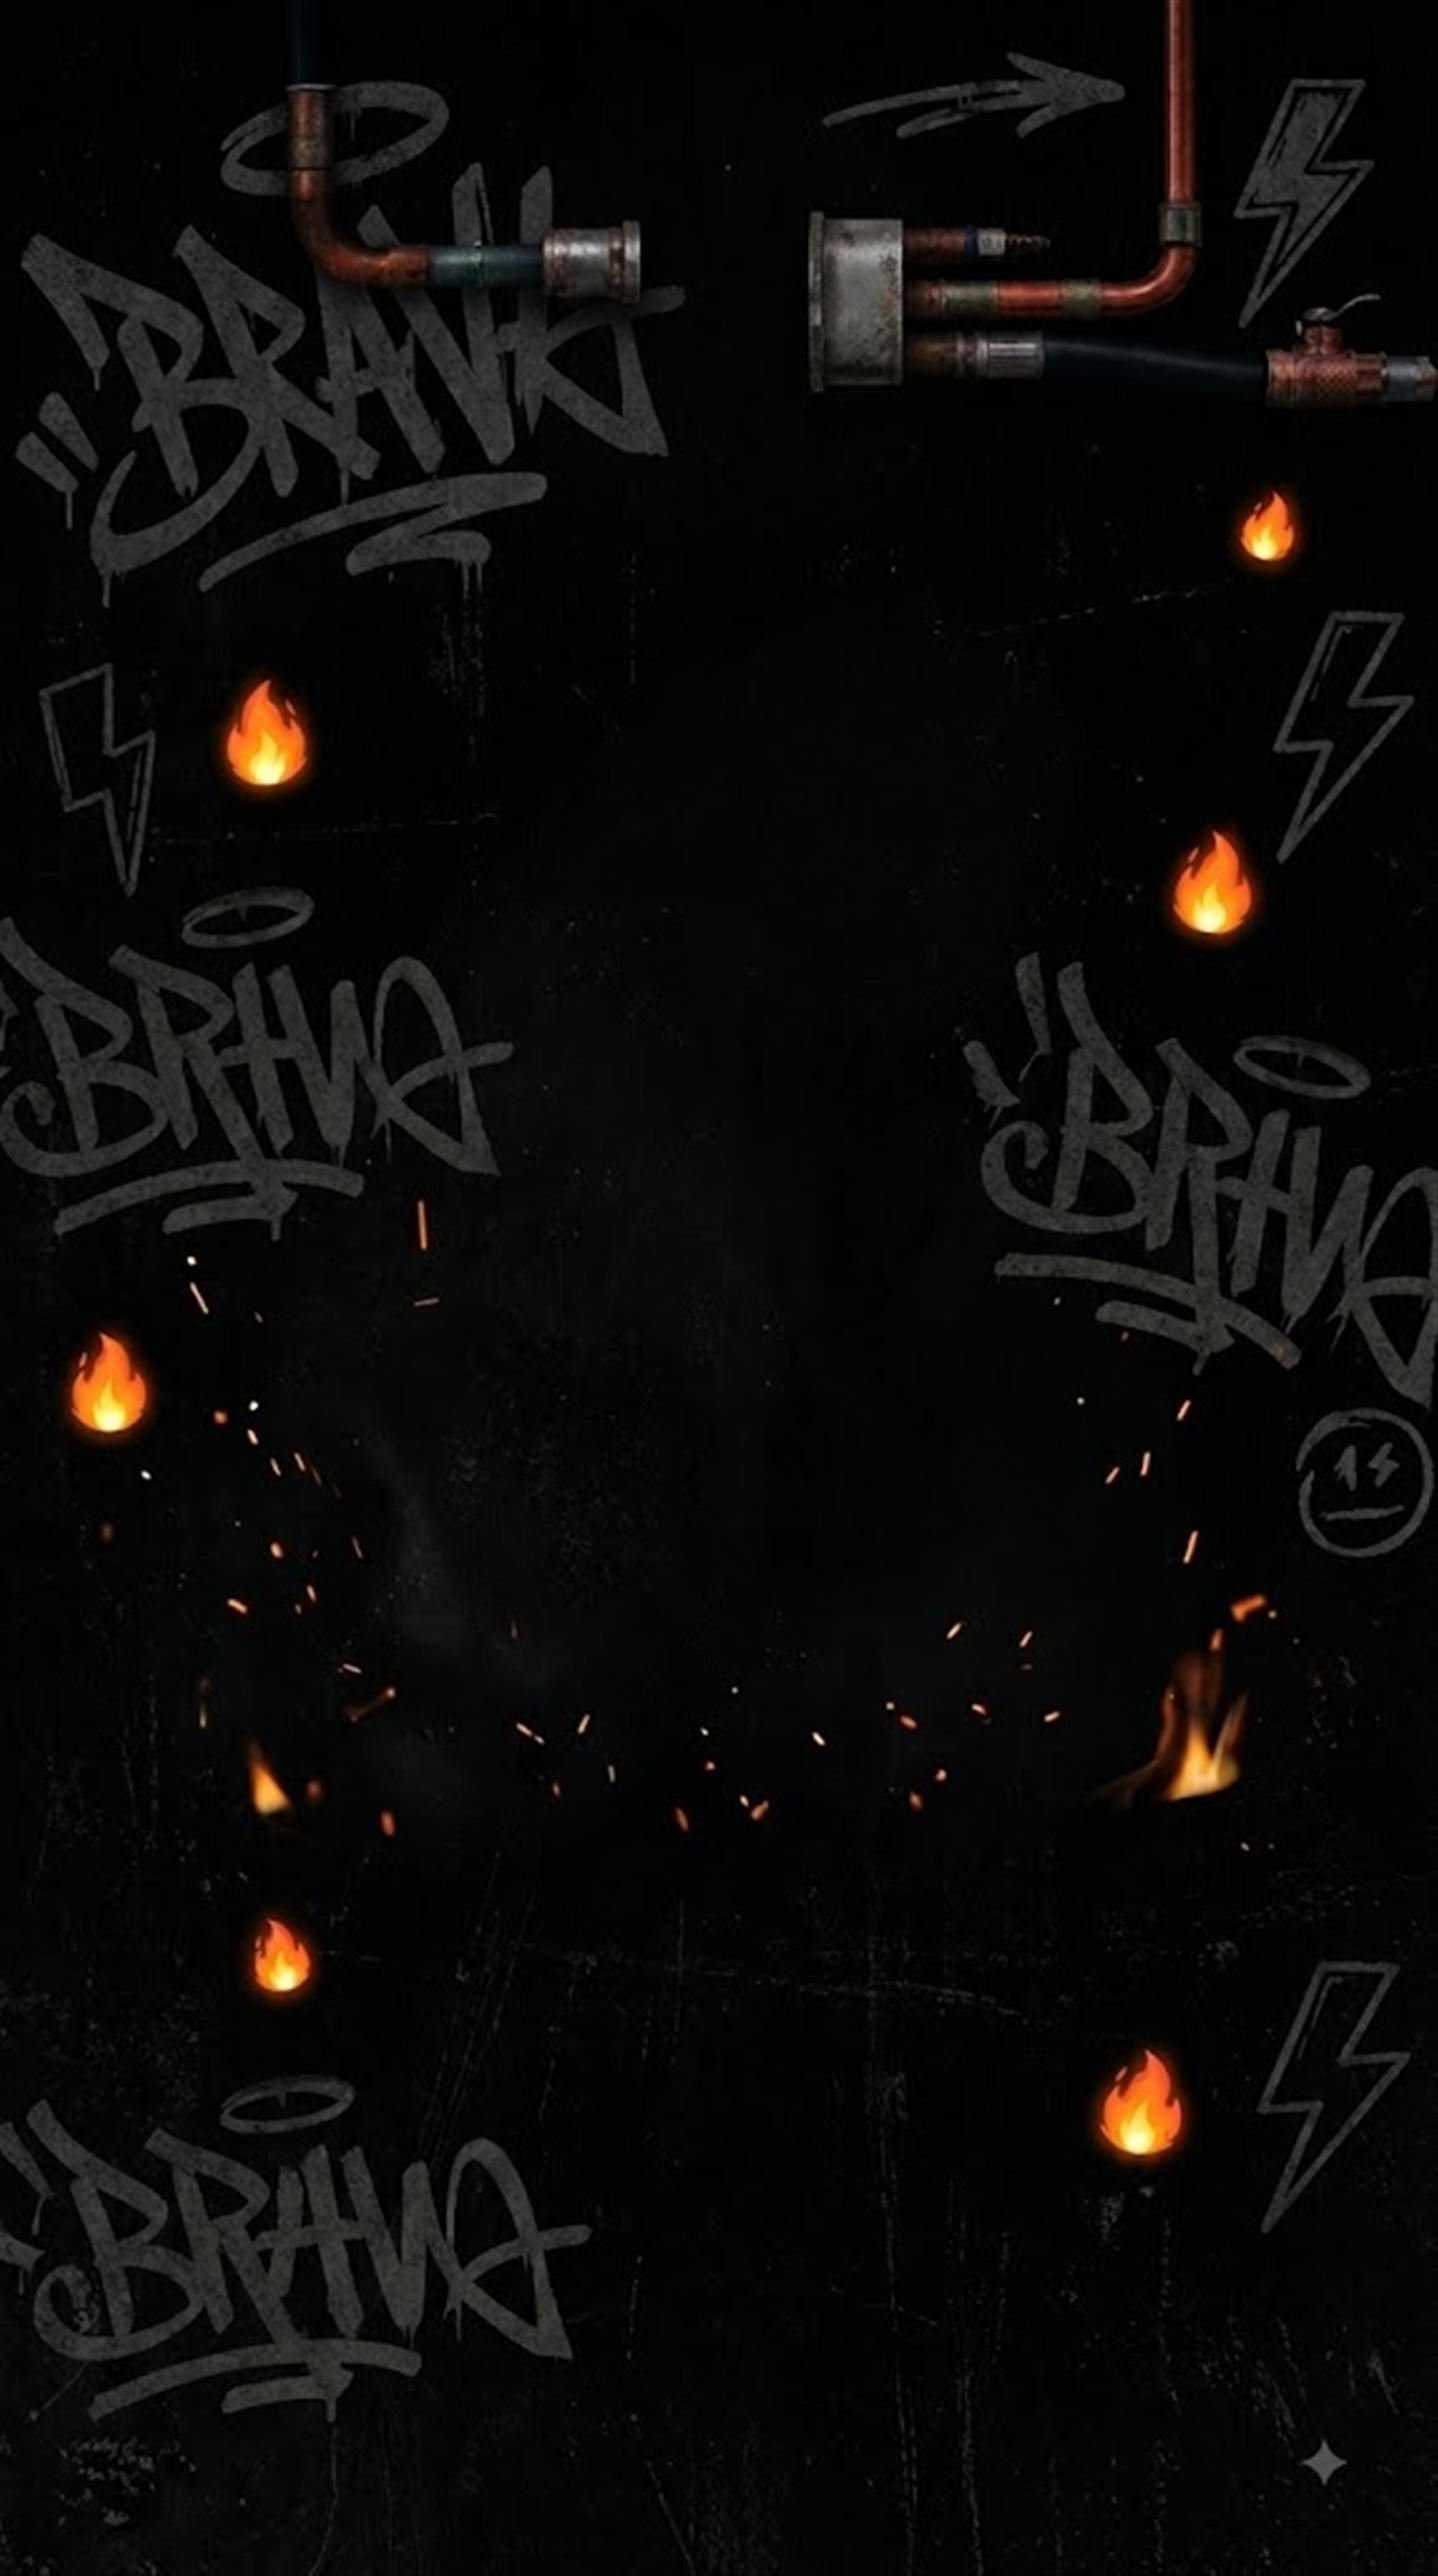
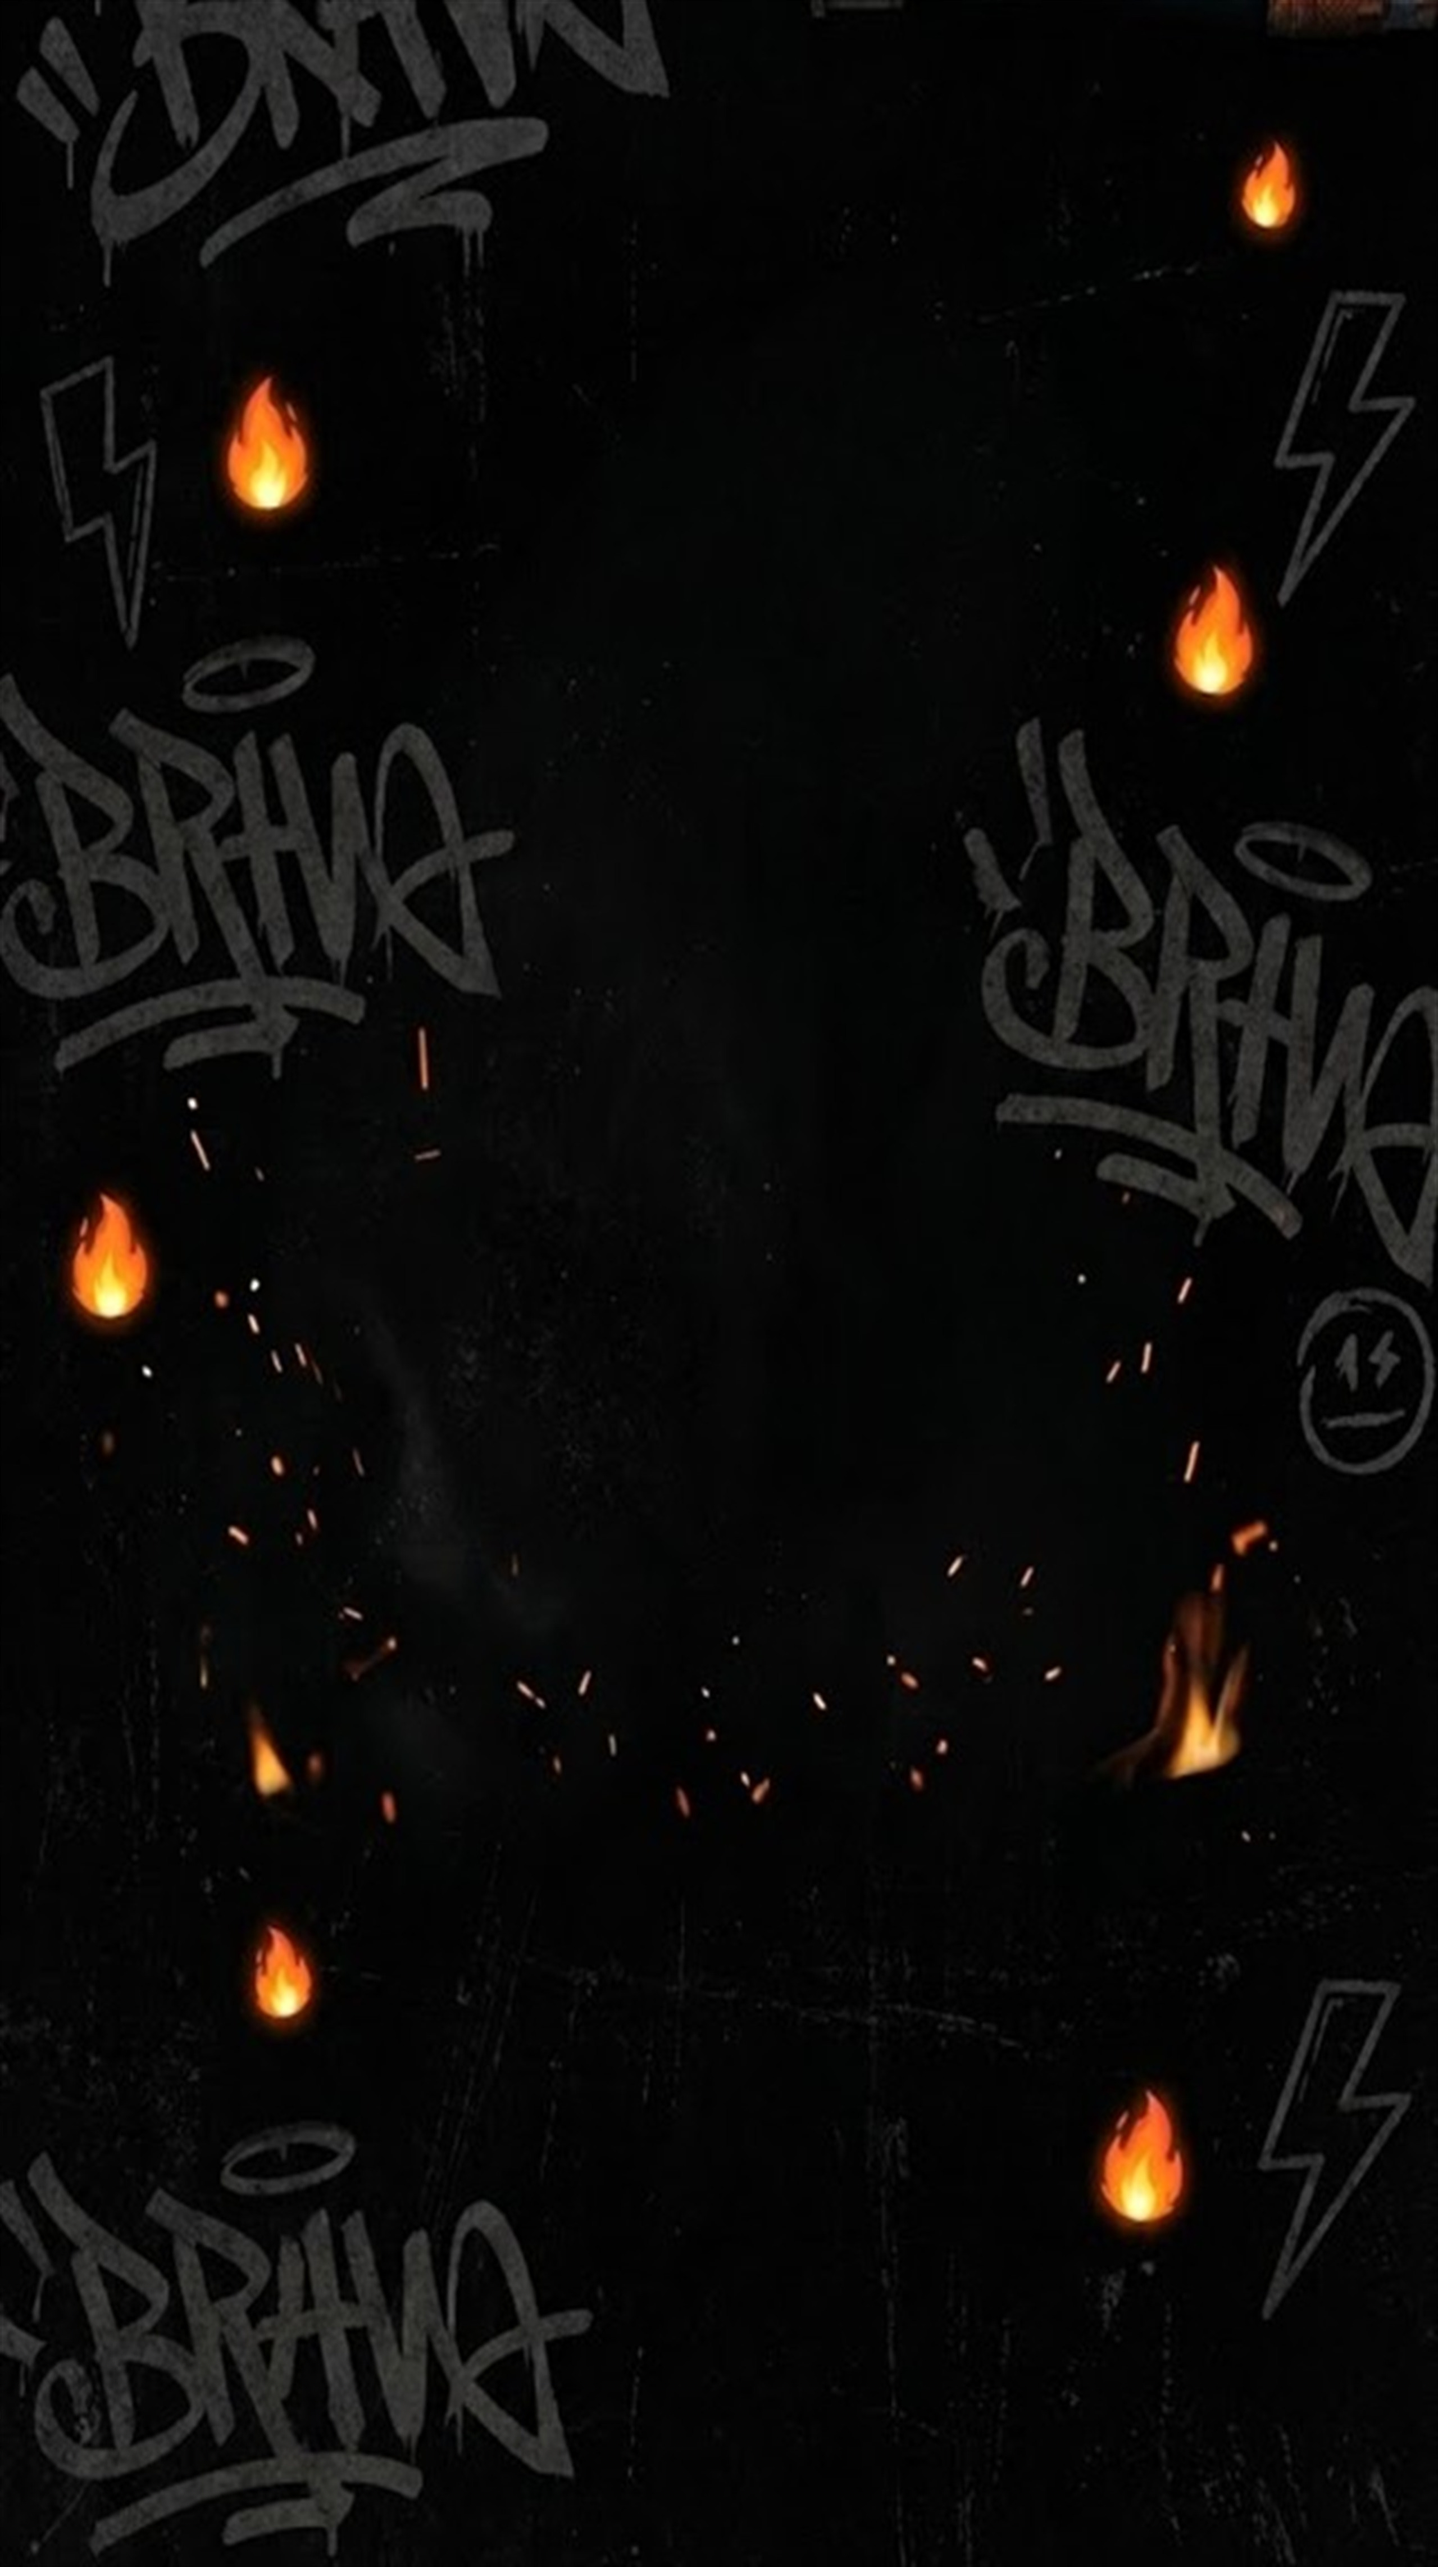
Tienda: fondo PC custom FondoBrava (2560px) solo en desktop.

diff --git a/BravaBurgers/pedilo-data.js b/BravaBurgers/pedilo-data.js
@@ -737,7 +737,7 @@
 		el.textContent = css;
 
 		var bgMobile = t.imagenFondo || 'brava-fondo-tienda.jpg';
-		var bgDesktop = t.imagenFondoDesktop || t.imagenFondoPc || 'brava-fondo-tienda-desktop.jpg';
+		var bgDesktop = t.imagenFondoDesktop || t.imagenFondoPc || 'brava-fondo-tienda-desktop.jpg?v=2';
 		document.documentElement.style.setProperty('--brava-bg-mobile', "url('" + bgMobile + "')");
 		document.documentElement.style.setProperty('--brava-bg-desktop', "url('" + bgDesktop + "')");
 		document.body.classList.add('brava-has-bg-image');

diff --git a/BravaBurgers/index.html b/BravaBurgers/index.html
@@ -36,7 +36,7 @@
 		var g_ingredientes_catalog = [];
 		var g_telefono = '';
 	</script>
-	<script src="pedilo-data.js?v=24"></script>
+	<script src="pedilo-data.js?v=25"></script>
 	<link href="brava-brand.css?v=22" rel="stylesheet">
 	<style>
 		#preguntas_pedido.fancybox-content,
